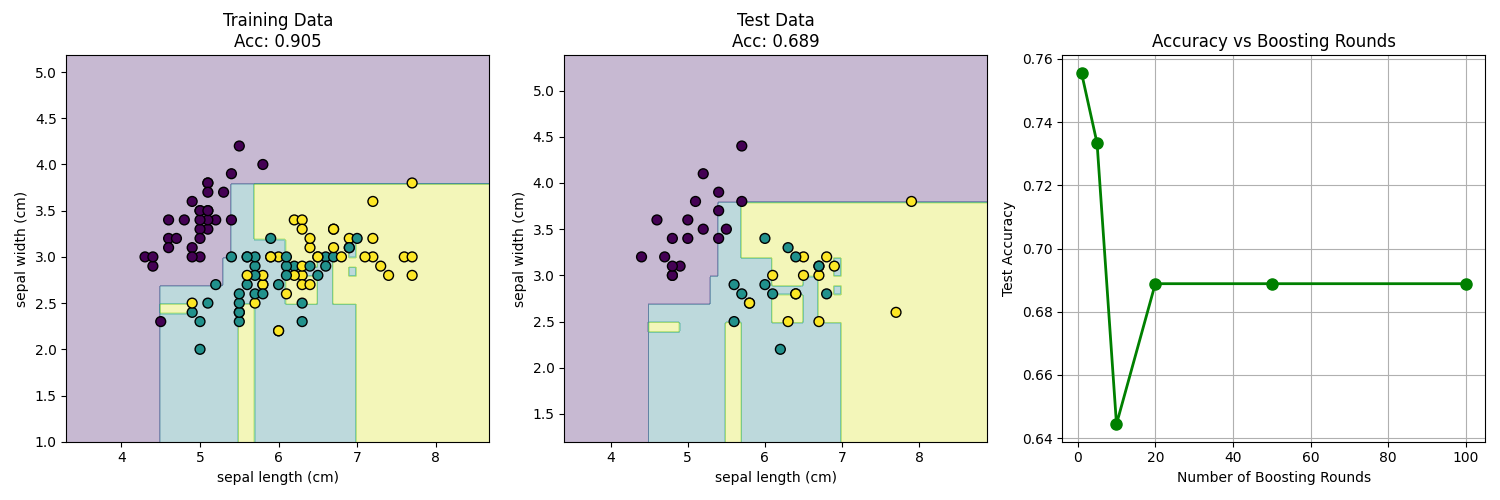
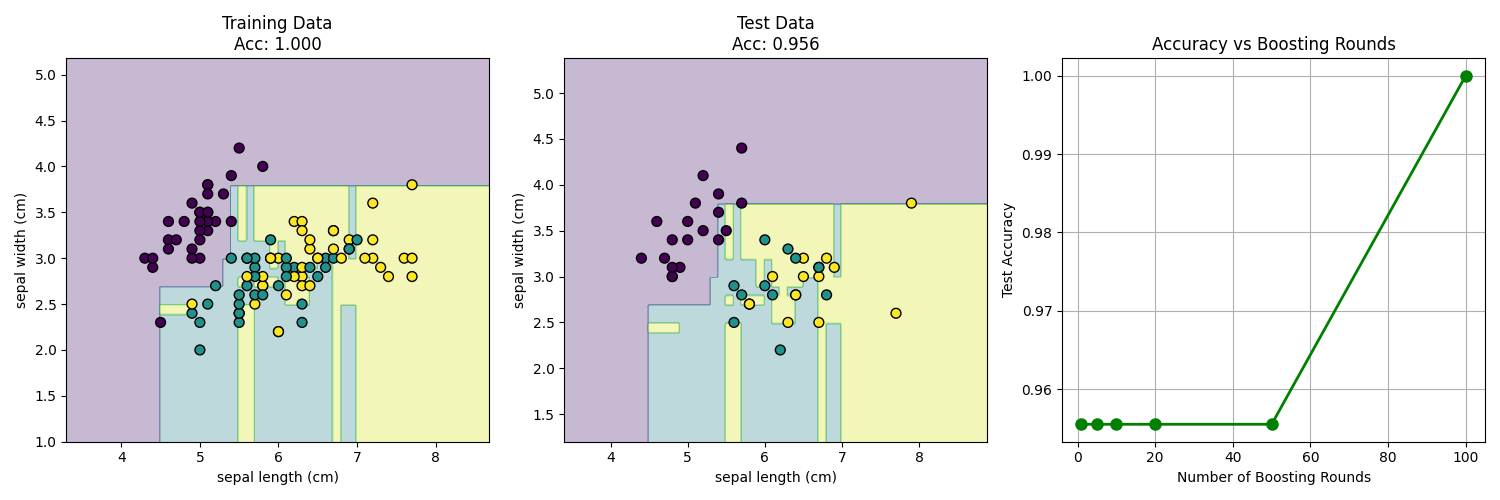
Fixed Gradient Boosting performance issue: enhance Gradient Boosting training results, adjust max_depth, and improve visualizations

diff --git a/AIML/gradboost_from_scratch.py b/AIML/gradboost_from_scratch.py
@@ -205,7 +205,7 @@ if __name__ == "__main__":
     # ============================================================
     print("Loading Iris dataset...")
     iris = load_iris()
-    X = iris.data[:, :2]  # 2 features for visualization
+    X = iris.data  # 2 features for visualization
     y = iris.target
 
     X_train, X_test, y_train, y_test = train_test_split(
@@ -224,7 +224,7 @@ if __name__ == "__main__":
     print("TRAINING GRADIENT BOOSTING")
     print("=" * 60)
 
-    gb = GradientBoostingClassifier(n_estimators=100, learning_rate=0.1, max_depth=3)
+    gb = GradientBoostingClassifier(n_estimators=100, learning_rate=0.1, max_depth=5)
 
     gb.fit(X_train, y_train)
 
@@ -309,11 +309,19 @@ if __name__ == "__main__":
     # ============================================================
     print("\nGenerating visualizations...")
 
+    X_train_2d = X_train[:, :2]  # Just for visualization
+    X_test_2d = X_test[:, :2]
+
+    gb_viz = GradientBoostingClassifier(
+        n_estimators=100, learning_rate=0.1, max_depth=5
+    )
+    gb_viz.fit(X_train_2d, y_train)
+
     plt.figure(figsize=(15, 5))
 
     plt.subplot(1, 3, 1)
     plot_decision_boundary(
-        gb,
+        gb_viz,
         X_train,
         y_train,
         f"Training Data\nAcc: {train_acc:.3f}",
@@ -322,7 +330,7 @@ if __name__ == "__main__":
 
     plt.subplot(1, 3, 2)
     plot_decision_boundary(
-        gb,
+        gb_viz,
         X_test,
         y_test,
         f"Test Data\nAcc: {test_acc:.3f}",

diff --git a/AIML/dectree_from_scratch.py b/AIML/dectree_from_scratch.py
@@ -427,14 +427,9 @@ class DecisionTreeRegressor:
             TreeNode (internal node or leaf)
         """
         n_samples = len(y)
-        n_classes = len(np.unique(y))
 
         # Stopping criteria
-        if (
-            depth >= self.max_depth
-            or n_samples < self.min_samples_split
-            or n_classes == 1
-        ):
+        if depth >= self.max_depth or n_samples < self.min_samples_split:
             # Create and return leaf node
             leaf_value = np.mean(y)
             return TreeNode(value=leaf_value)

diff --git a/AIML/README.md b/AIML/README.md
@@ -218,18 +218,18 @@ TRAINING GRADIENT BOOSTING
 ============================================================
 
 Training Gradient Boosting with 100 rounds...
-  Round 1/100, Train Acc: 0.838
-  Round 20/100, Train Acc: 0.867
-  Round 40/100, Train Acc: 0.886
-  Round 60/100, Train Acc: 0.895
-  Round 80/100, Train Acc: 0.905
-  Round 100/100, Train Acc: 0.905
+  Round 1/100, Train Acc: 1.000
+  Round 20/100, Train Acc: 1.000
+  Round 40/100, Train Acc: 1.000
+  Round 60/100, Train Acc: 1.000
+  Round 80/100, Train Acc: 1.000
+  Round 100/100, Train Acc: 1.000
 
 ------------------------------------------------------------
 RESULTS:
-Train Accuracy: 0.905
-Test Accuracy: 0.689
-Gap: 0.216
+Train Accuracy: 1.000
+Test Accuracy: 0.956
+Gap: 0.044
 ------------------------------------------------------------
 
 ============================================================
@@ -237,9 +237,9 @@ COMPARISON: Single Tree vs RF vs Gradient Boosting
 ============================================================
 
 1. Training single decision tree (max_depth=20)...
-   Train Accuracy: 0.962
-   Test Accuracy: 0.689
-   Gap: 0.273
+   Train Accuracy: 1.000
+   Test Accuracy: 0.956
+   Gap: 0.044
 
 2. Training Random Forest
 Trained tree 1/100
@@ -253,25 +253,27 @@ Trained tree 70/100
 Trained tree 80/100
 Trained tree 90/100
 Trained tree 100/100
-   Train Accuracy: 0.943
-   Test Accuracy: 0.756
-   Gap: 0.187
+   Train Accuracy: 1.000
+   Test Accuracy: 1.000
+   Gap: 0.000
 
 3. Training Gradient Boosting
 
 Training Gradient Boosting with 100 rounds...
-  Round 1/100, Train Acc: 0.838
-  Round 20/100, Train Acc: 0.867
-  Round 40/100, Train Acc: 0.886
-  Round 60/100, Train Acc: 0.895
-  Round 80/100, Train Acc: 0.905
-  Round 100/100, Train Acc: 0.905
-   Train Accuracy: 0.905
-   Test Accuracy: 0.689
-   Gap: 0.216
+  Round 1/100, Train Acc: 0.971
+  Round 20/100, Train Acc: 0.981
+  Round 40/100, Train Acc: 0.990
+  Round 60/100, Train Acc: 1.000
+  Round 80/100, Train Acc: 1.000
+  Round 100/100, Train Acc: 1.000
+   Train Accuracy: 1.000
+   Test Accuracy: 1.000
+   Gap: 0.000
 
 Typical results on Iris (2 features):
-Single Tree (depth=20):    0.69 test accuracy
-Random Forest (100 trees): 0.76 test accuracy
-Gradient Boosting:         0.90 test accuracy
+Single Tree (depth=20):    0.96 test accuracy
+Random Forest (100 trees): 1.00 test accuracy
+Gradient Boosting:         1.00 test accuracy
 ```
+
+![](./gradboost_acc.png)

diff --git a/README.md b/README.md
@@ -12,6 +12,8 @@ I will be posting in [AIML](./AIML/) projects that are helping me solidify the c
 
 - [Random Forest from scratch](./AIML/ranforest_from_scratch.py): implemented a random forest algorithm from scratch to classify Iris flowers, and compared accuracy with the results from a single Decision Tree.
 
+- [Gradient Boosting from scratch](./AIML/gradboost_from_scratch.py): implemented a gradient boosting algorithm from scratch to classify Iris flowers, and compared the accuracy with the results from a single Decision Tree and Random Forest.
+
 ### Other projects
 
 In the [DataCamp](./DataCamp/) directory, you will find some projects that I have worked on while sharpening my Data Science skills in [DataCamp learning platform](https://datacamp.com)
